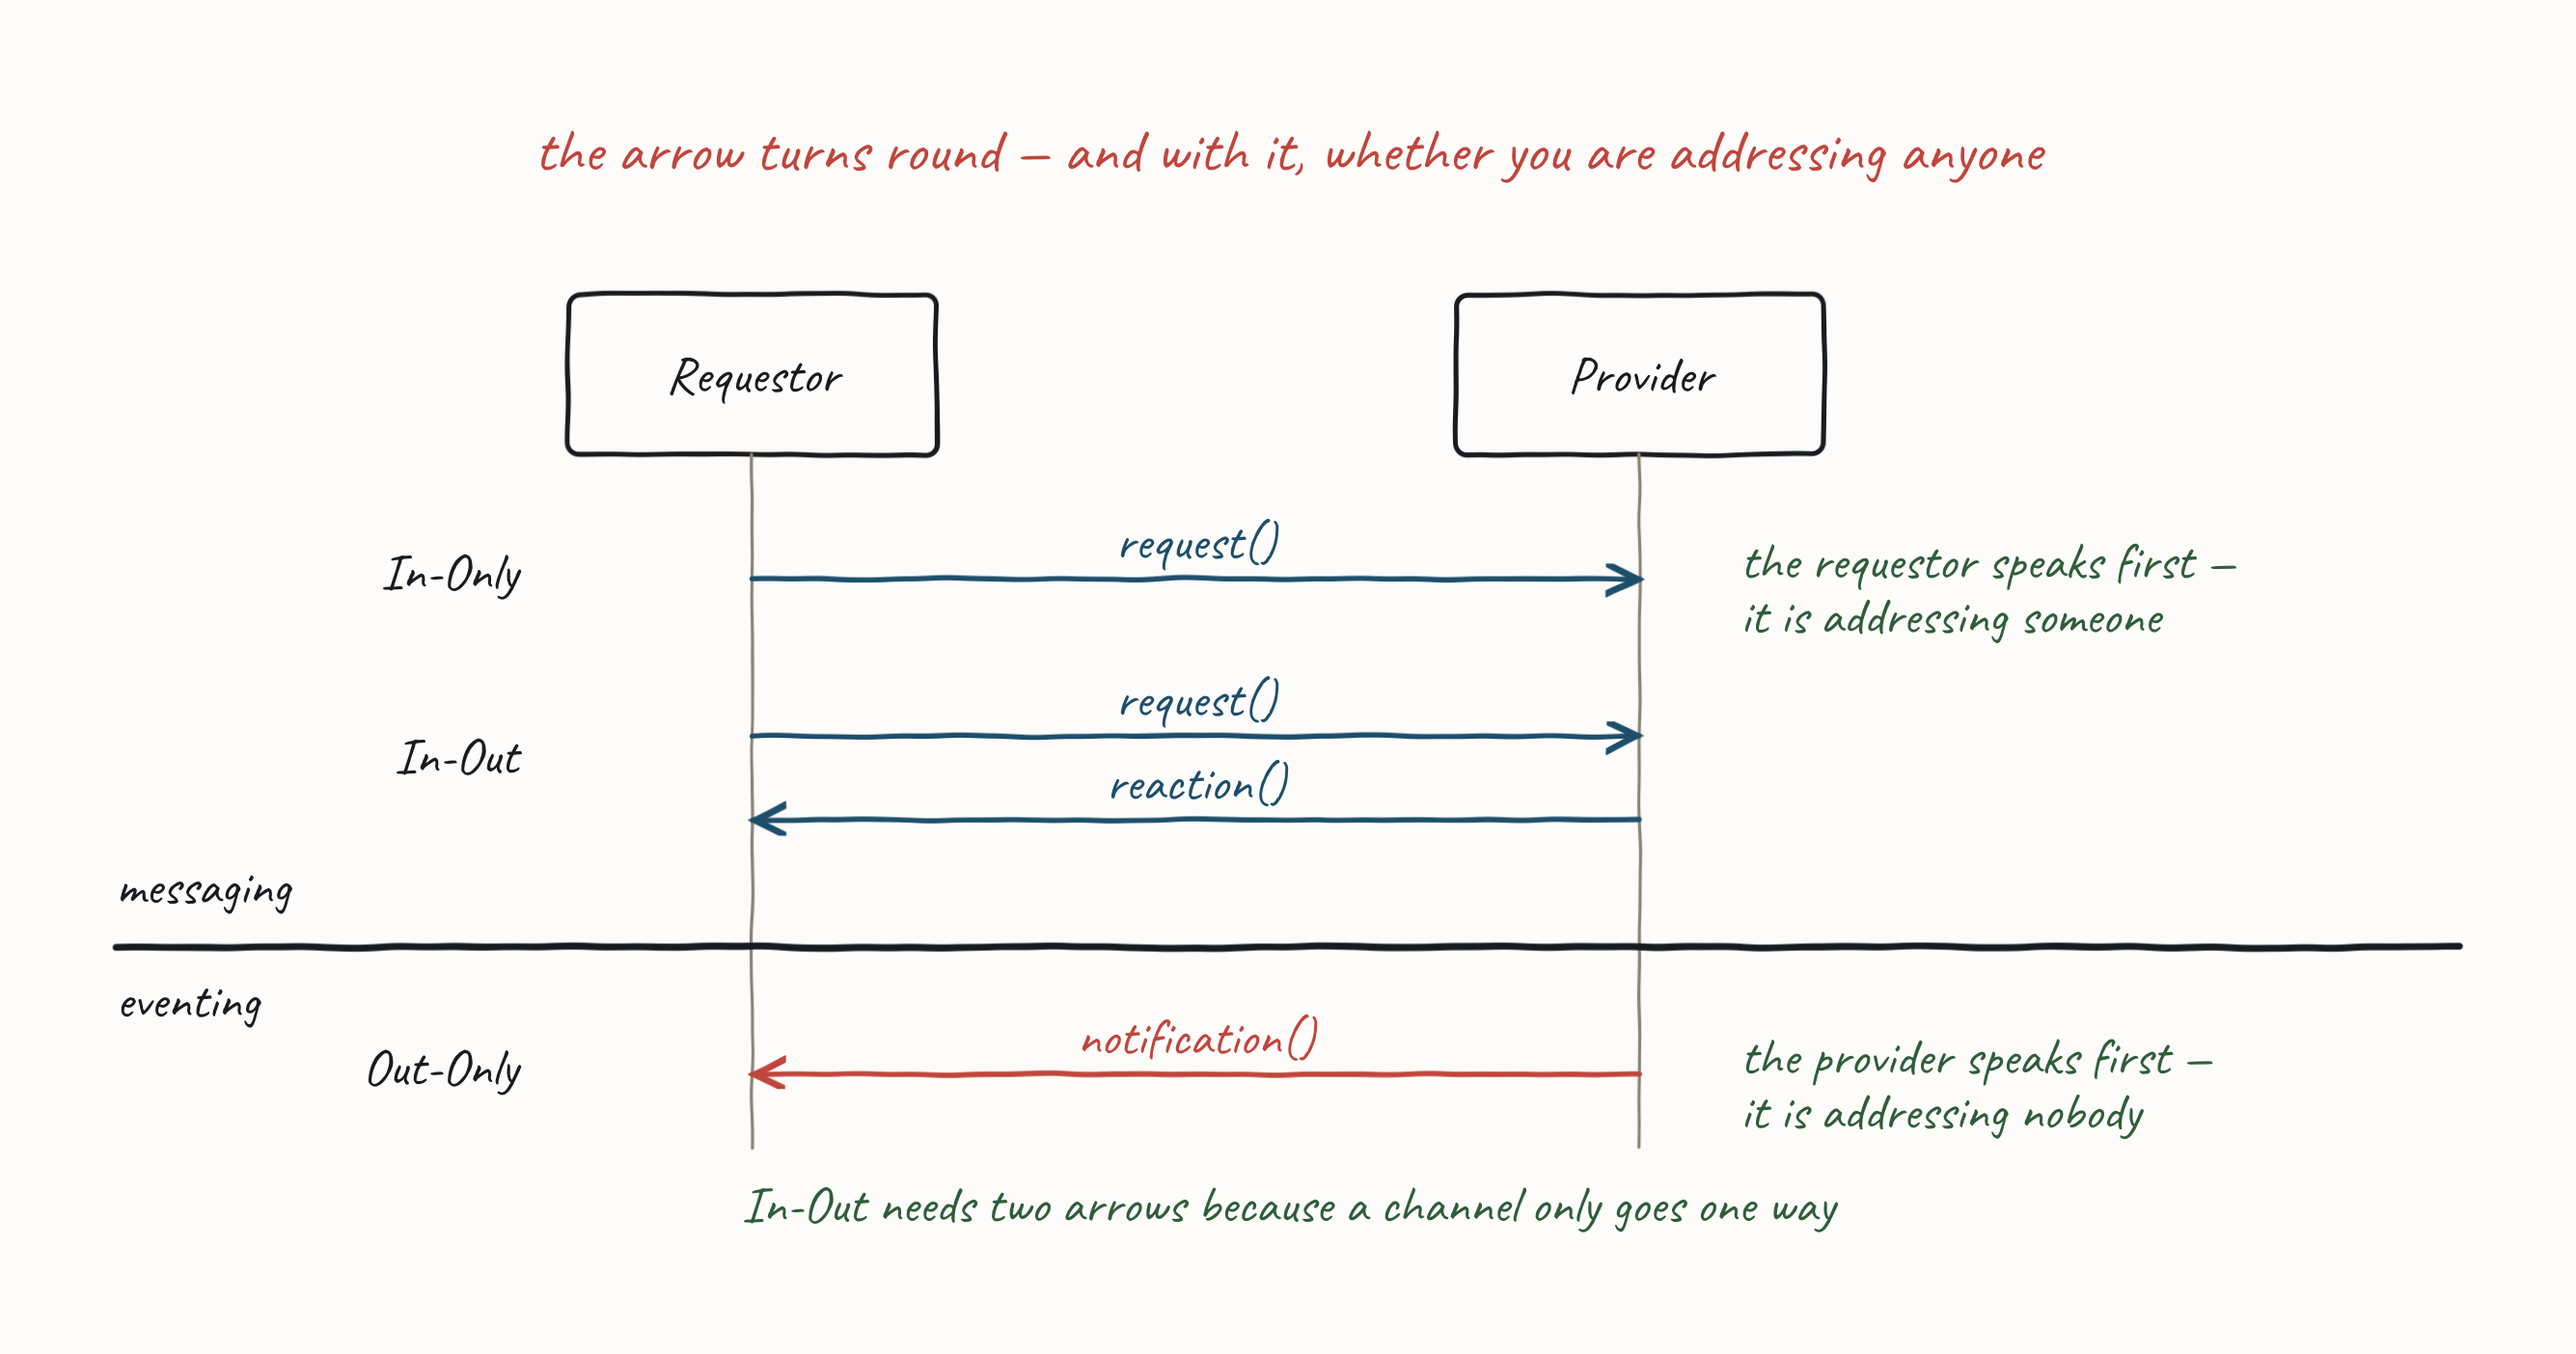
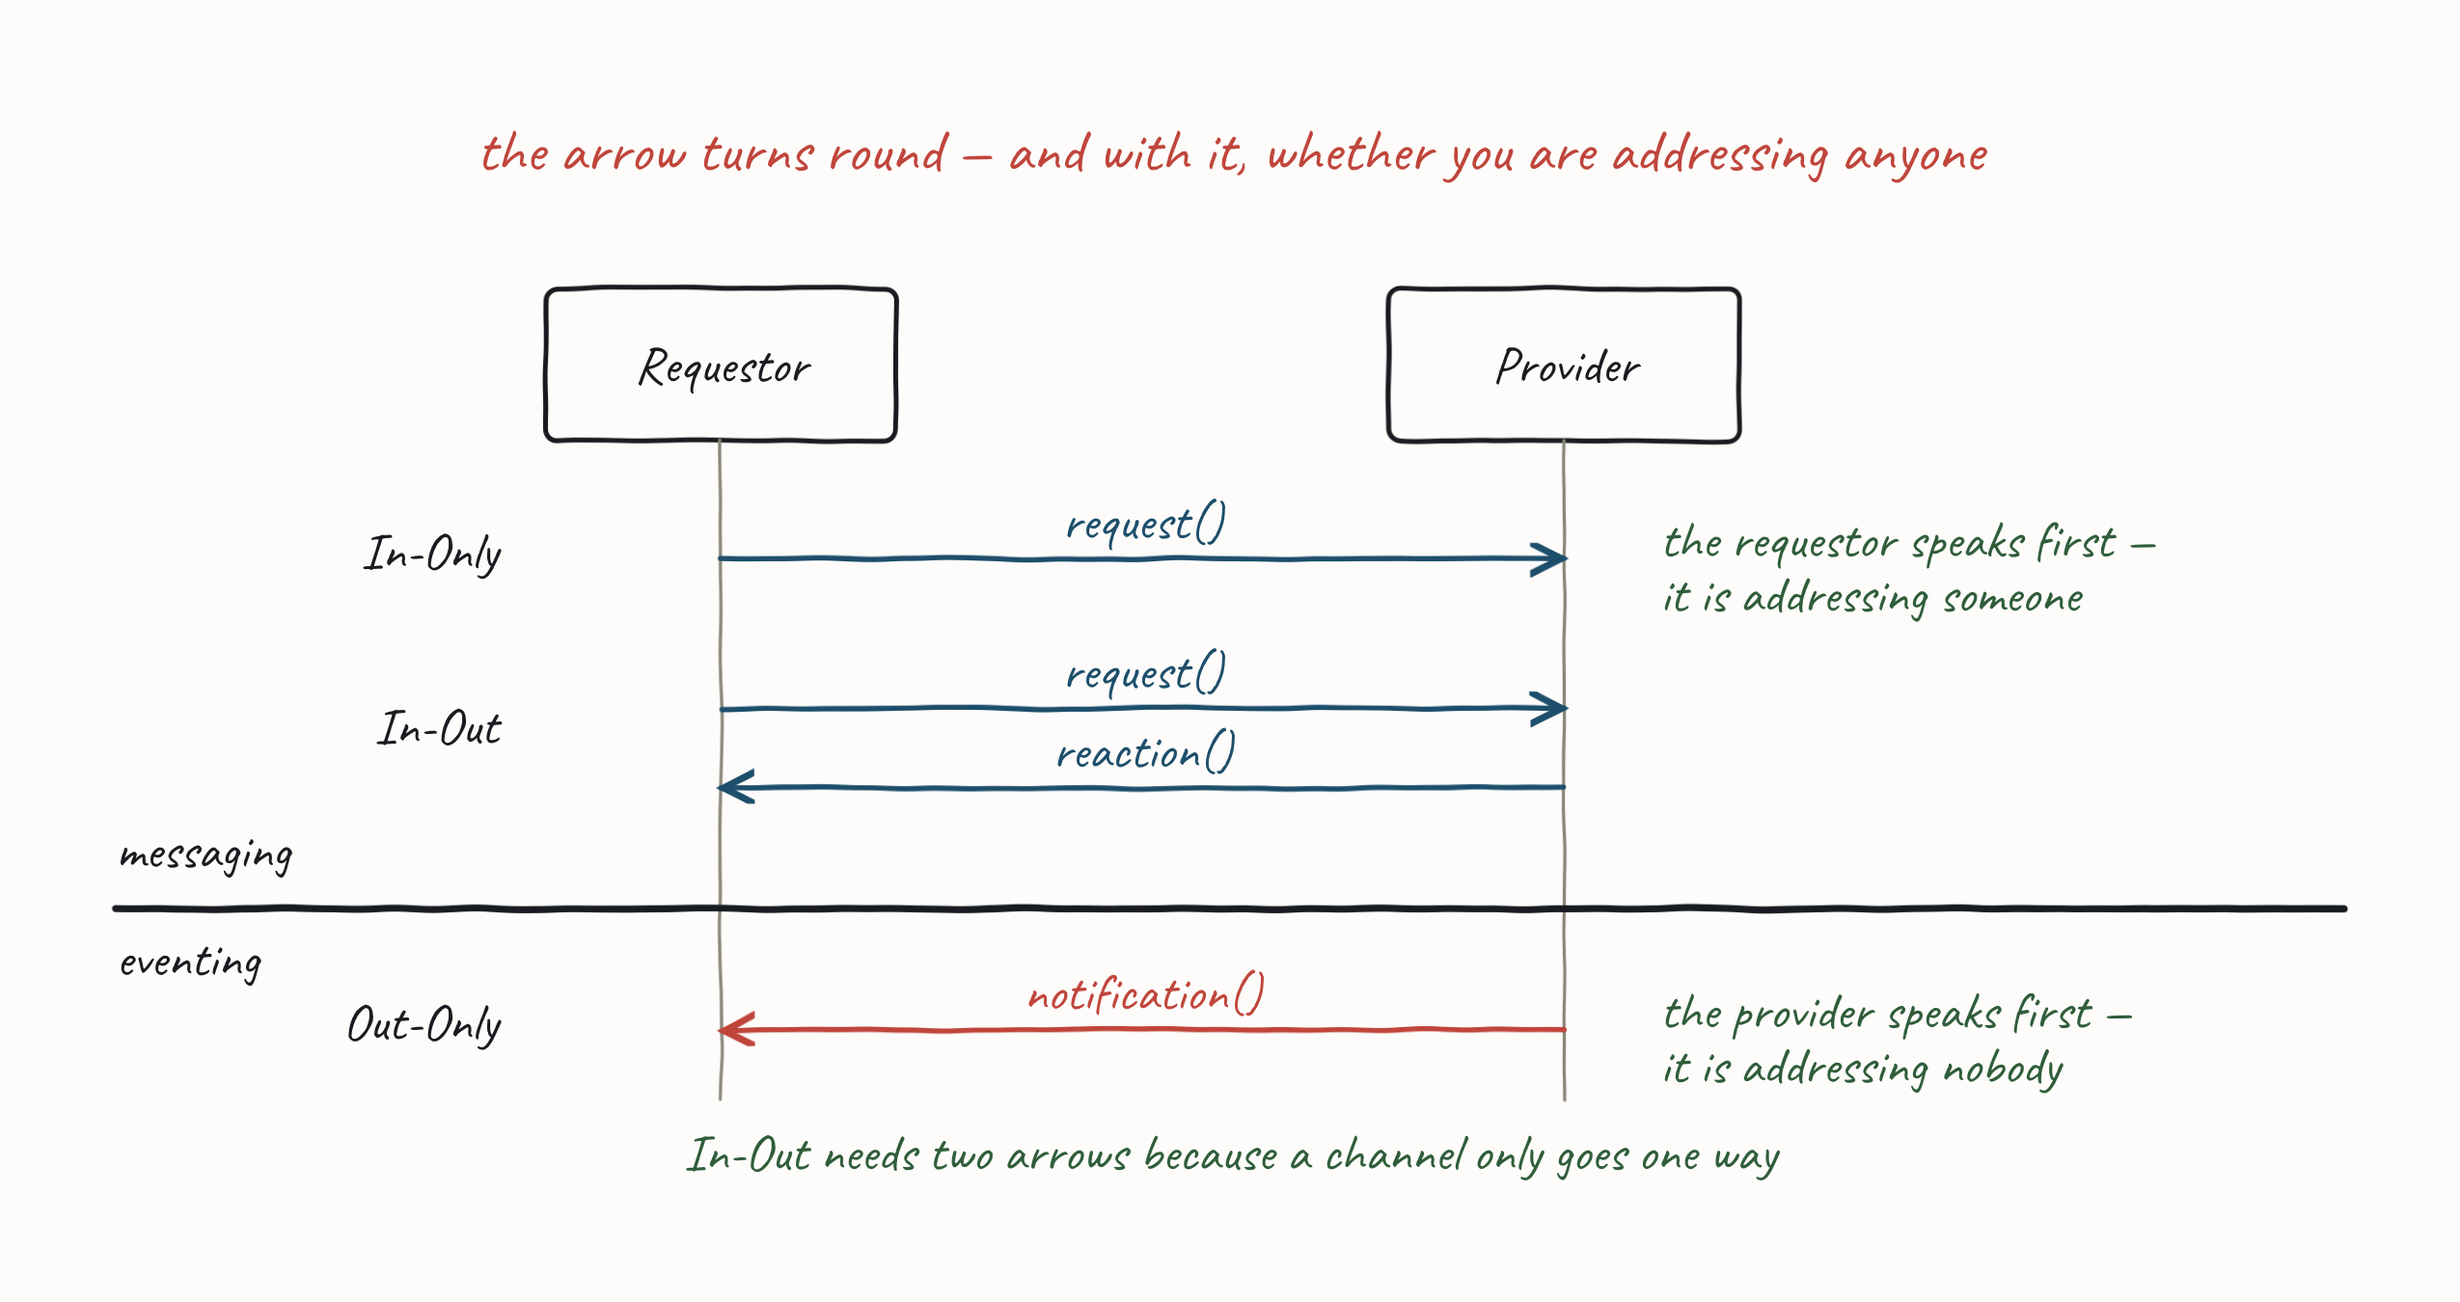
Out-In gets a picture, and it needs three lifelines to be a question at all
The Out-In (Solicit-Response) slide had no image, and a fourth 2021 export for
it has been sitting unlinked in resources/ since the other three were redrawn.
Ian, 2026-09-08: draw it.

`conversation-out-in` -- one provider soliciting TWO couriers. Two lifelines
would have made this In-Out with the roles swapped, which is mechanically what
it is and teaches nothing the previous slide has not. What Out-In adds is a
shape: the provider speaks first AND wants an answer, because it does not know
who is willing -- and "who is willing" needs more than one candidate on the page
to be a question.

The first ready() lands inside the solicitation's lifetime, the second after the
clock. Red is on the expiry and nothing else: the second courier is NOT reddened
for being unavailable, because it was not unavailable. It answered, after the
work was gone. That is the slide's own distinction -- a late answer is a timeout
problem, not an availability one -- and reddening the courier would lose it.

The nouns are the slide's own (Delivery, Courier A/B) rather than Requestor and
Provider: the other two figures here are abstract because their slides are, and
this slide teaches through its example. The roles still hold their sides, so the
arrow still leaves from the right exactly as it does for Out-Only.

`participants()` becomes `lifelines()` and takes any number of parties. Boxes
first, then rules -- so adding a third party did not reorder the two figures
[…]

diff --git a/tools/conversations.py b/tools/conversations.py
@@ -1,7 +1,7 @@
 #!/usr/bin/env python3
-"""§Conversations' two figures -- plan §8 class D, and the 2021 redraw Ian asked for.
+"""§Conversations' three figures -- plan §8 class D, and the 2021 redraw Ian asked for.
 
-    python3 tools/conversations.py                  # rebuild both
+    python3 tools/conversations.py                  # rebuild all three
     python3 tools/conversations.py conversation-timeout
     python3 tools/conversations.py --list
 
@@ -28,7 +28,7 @@ reason the next bullet demands idempotence. Rule 3: read the slide, not the mark
 **Time runs down the page, and that is a vocabulary choice rather than a register
 one.** Everything here is hand-drawn Caveat like the rest of Day 1; what is new is that
 vertical position means *when*, because a conversation is a sequence and the deck has
-nowhere else said so. The two lifelines are `MUTED` hairlines at 1.1pt, which is what
+nowhere else said so. The lifelines are `MUTED` hairlines at 1.1pt, which is what
 `muted` is for -- they are guides. They are deliberately nothing like the 2.6pt ink
 rule §1 and §3 use for a process boundary.
 """
@@ -57,23 +57,27 @@ def figure(name):
     return wrap
 
 
-def participants(d, lx, rx, top, bottom, w=220, h=96,
-                 left="Requestor", right="Provider"):
-    """The two parties and the lifelines they talk down, given as centre-lines.
+def lifelines(d, parties, top, bottom, w=220, h=96):
+    """The parties and the lifelines they talk down. `parties` is a sequence of
+    `(centre_x, name)`.
 
-    **Both figures in this module draw the same two boxes, so they are drawn here.**
-    `lx` and `rx` are the *centres*, because every exchange in the module is anchored
-    to a lifeline rather than to a box edge, and a figure that has to compute
-    `x + w / 2` at every call site will get one of them wrong.
+    **Every figure in this module draws the same boxes, so they are drawn here.**
+    The x is the *centre*, because every exchange in the module is anchored to a
+    lifeline rather than to a box edge, and a figure that has to compute `x + w / 2`
+    at every call site will get one of them wrong.
+
+    **Boxes first, then rules**, so a lifeline can never be painted over the box of
+    the party to its left -- and so that adding a third party did not reorder the two
+    figures that were here before it.
 
     The lifelines are `MUTED` hairlines: they are guides, which is what muted is for,
     and they must stay clearly unlike the 2.6pt ink rule §1 and §3 use for a process
     boundary.
     """
-    d.box(lx - w / 2, top, w, h, left)
-    d.box(rx - w / 2, top, w, h, right)
-    d.rule(lx, top + h, 0, MUTED, 1.1, h=bottom - top - h)
-    d.rule(rx, top + h, 0, MUTED, 1.1, h=bottom - top - h)
+    for cx, name in parties:
+        d.box(cx - w / 2, top, w, h, name)
+    for cx, _ in parties:
+        d.rule(cx, top + h, 0, MUTED, 1.1, h=bottom - top - h)
 
 
 @figure("conversation-timeout")
@@ -94,7 +98,7 @@ def conversation_timeout():
     d.note(600, 46, "a timeout does not tell you it failed — "
                     "it tells you that you do not know", ANNOTATION, 21)
 
-    participants(d, 170, 1030, 130, 550, h=100)
+    lifelines(d, [(170, "Requestor"), (1030, "Provider")], 130, 550, h=100)
 
     d.arrow((170, 286), (1030, 286), "greet()")
     d.icon(170, 350, "clock", accent=True, r=19)
@@ -138,7 +142,7 @@ def messaging_or_eventing():
     d.note(760, 46, "the arrow turns round — and with it, "
                     "whether you are addressing anyone", ANNOTATION, 21)
 
-    participants(d, 440, 970, 120, 630)
+    lifelines(d, [(440, "Requestor"), (970, "Provider")], 120, 630)
 
     d.note(300, 296, "In-Only", INK, 18, anchor="end")
     d.arrow((440, 290), (970, 290), "request()")
@@ -165,6 +169,68 @@ def messaging_or_eventing():
 
     d.note(760, 674, "In-Out needs two arrows because a channel only goes one way",
            COMMENT, 18)
+    return d
+
+
+@figure("conversation-out-in")
+def out_in():
+    """*Out-In (Solicit-Response).* The provider canvasses, and the question expires.
+
+    **Why this slide needed a picture of its own rather than a fourth row on
+    `messaging_or_eventing`.** That figure's argument is the messaging/eventing fork
+    and its slide's own table does not list Out-In, so a fourth exchange there would
+    be answering a question the slide had not asked. What Out-In adds is not another
+    direction: it is a *shape*. One provider, several subscribers, and an answer with
+    a shelf life -- none of which fits on a single pair of lifelines.
+
+    **Three lifelines, because two would make this In-Out with the roles swapped.**
+    Mechanically that is exactly what it is, and drawing it that way would teach
+    nothing the previous slide has not. The reason a provider speaks first *and* wants
+    an answer is that it does not know who is willing, and "who is willing" needs more
+    than one candidate on the page to be a question at all.
+
+    **The nouns are the slide's own -- Delivery and two Couriers -- not Requestor and
+    Provider.** The other two figures in this module are abstract because their slides
+    are; this slide teaches through its example, and relabelling it would make the
+    reader carry the mapping. The roles still hold their sides: the couriers are
+    requestors and stay left, Delivery is the provider and stays right, so the arrow
+    still leaves from the right exactly as it does for Out-Only.
+
+    **Red is on the expiry, and that is one idea in three marks** -- the clock, the
+    late `ready()`, and nothing else. The slide's coupling bullet is that both parties
+    may be down and it still works, *but* a late answer is worthless; so the figure
+    must not red the second courier for being unavailable. It is not unavailable. It
+    answered. It answered after the work was gone, which is a different failure and is
+    the one the foot comment names.
+    """
+    d = Diagram("Out-In (Solicit-Response)", w=1440, h=660)
+    d.note(720, 46, "the provider asks who is willing — and the question expires",
+           ANNOTATION, 21)
+
+    lifelines(d, [(150, "Courier A"), (380, "Courier B"), (1290, "Delivery")],
+              100, 590, w=200, h=90)
+
+    # Both solicitations are the same message, so only the first is named. Labelling
+    # the second would read as a second, different call.
+    d.arrow((1290, 232), (380, 232), "solicit()")
+    d.arrow((1290, 272), (150, 272))
+    # The gloss belongs to the two solicitations above it, so it has to sit much
+    # closer to them than to the `ready()` below -- at equal spacing it reads as an
+    # annotation on the reply instead, which is the opposite of what it says.
+    d.note(840, 316, "to every subscriber — it knows they exist, not who they are",
+           COMMENT, 18)
+
+    d.arrow((150, 402), (1290, 402), "ready()")
+
+    d.icon(1290, 452, "clock", accent=True, r=19)
+    d.note(1244, 458, "the solicitation expires", ANNOTATION, 18, anchor="end")
+
+    d.arrow((380, 512), (1290, 512), "ready()", accent=True)
+    d.note(840, 562, "too late to be useful — the work is already allocated",
+           COMMENT, 18)
+
+    d.note(720, 634, "a late answer is a timeout problem, not an availability one — "
+                     "both of you were up", COMMENT, 18)
     return d
 
 

diff --git a/outlines/DayOne.md b/outlines/DayOne.md
@@ -1147,6 +1147,8 @@ subscriber confirms receipt of the provider's solicitation.
 - *Coupled about:* the solicitation contract. The provider must know subscribers exist, though not who they are.
 - *Must you both be up?* **No** — but the solicitation has a useful lifetime. An answer that arrives too late is worthless, which is a **timeout** problem, not an availability one.
 
+#image: one provider soliciting two couriers down three lifelines — the first ready() lands inside the solicitation's lifetime, the second arrives after the clock and is worthless  [→ resources/conversation-out-in.png]
+
 ### Slide: Choosing an Exchange Pattern
 
 The decision, in order:
